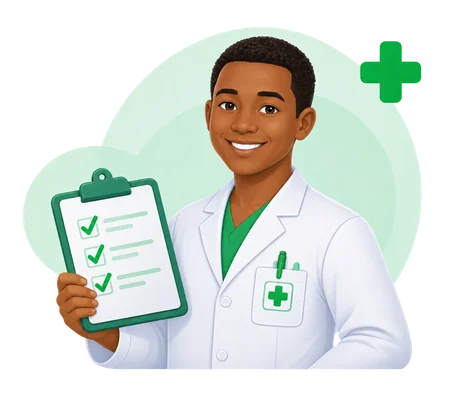
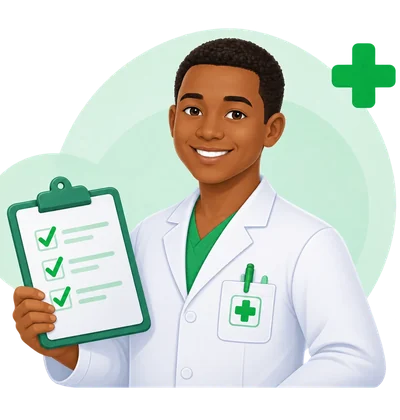
Pharmacie : le pharmacien à la hauteur exacte des chiffres
L'illustration, recadrée autour du personnage, remplit la hauteur du
bloc de chiffres (en haut comme en bas) sans compter dans la hauteur du
bandeau ; au téléphone elle prend la moitié de la largeur et les chiffres
se resserrent.

Changed region(s): [[0.0, 0.06, 0.99, 0.93], [0.42, 0.12, 0.51, 0.42], [0.48, 0.33, 0.51, 0.36]]

diff --git a/src/components/pharmacie/pharmacie.css b/src/components/pharmacie/pharmacie.css
@@ -169,41 +169,50 @@ html.dark[data-nature="pharmacie"] {
   --bandeau: oklch(0.235 0.03 158);
 }
 .ph-bandeau {
+  --figure: 13rem;
   position: relative;
   margin-top: 1rem;
-  display: flex;
-  align-items: center;
-  gap: 1rem;
+  display: grid;
+  grid-template-columns: minmax(0, 1fr) var(--figure);
+  column-gap: 0.75rem;
   overflow: hidden;
-  min-height: 9.5rem;
   border-radius: 1.5rem;
   background: var(--bandeau);
-  padding: 1.1rem 0 1.1rem 1.4rem;
+  padding: 1.1rem 0.75rem 0 1.4rem;
+}
+/* La figure remplit la hauteur des chiffres, posée en bas à droite. */
+.ph-bandeau-figure {
+  position: relative;
+  /* La même marge basse que les chiffres : la figure commence et finit
+     avec eux. */
+  margin-bottom: 1.1rem;
 }
 .ph-bandeau-image {
-  align-self: flex-end;
-  flex-shrink: 0;
-  width: auto;
-  height: 10.5rem;
-  margin: 0 0.5rem -1.1rem 0;
+  position: absolute;
+  inset: 0;
+  width: 100%;
+  height: 100%;
+  object-fit: contain;
+  object-position: right bottom;
   pointer-events: none;
   user-select: none;
 }
 @media (max-width: 639px) {
   .ph-bandeau {
-    min-height: 8rem;
-    padding-left: 1.1rem;
+    --figure: 50%;
+    column-gap: 0.4rem;
+    padding: 1rem 0.5rem 0 1.1rem;
   }
-  .ph-bandeau-image {
-    height: 7.5rem;
-    margin-right: 0.35rem;
+  .ph-bandeau-figure {
+    margin-bottom: 1rem;
   }
 }
 .ph-entete-chiffres {
   display: flex;
   min-width: 0;
-  flex: 1 1 auto;
   flex-wrap: wrap;
+  align-self: center;
+  padding-bottom: 1.1rem;
   align-items: baseline;
   align-content: center;
   column-gap: 1.25rem;
@@ -248,13 +257,23 @@ html.dark[data-nature="pharmacie"] {
 }
 @media (max-width: 639px) {
   .ph-entete-chiffres > .ph-chiffre[data-ton="plein"] .ph-chiffre-valeur {
-    font-size: 1.9rem;
+    font-size: 1.7rem;
+  }
+  .ph-entete-chiffres > .ph-chiffre[data-ton="plein"] .ph-chiffre-libelle {
+    font-size: 0.9rem;
   }
   .ph-entete-chiffres > .ph-chiffre .ph-chiffre-valeur {
     font-size: 1.05rem;
   }
   .ph-entete-chiffres > .ph-chiffre .ph-chiffre-libelle {
     font-size: 0.8rem;
+  }
+  .ph-entete-chiffres {
+    row-gap: 0.15rem;
+    padding-bottom: 1rem;
+  }
+  .ph-entete-chiffres > .ph-chiffre[data-ton="plein"] {
+    margin-bottom: 0.35rem;
   }
 }
 /* En alerte, le chiffre et son libellé prennent la couleur de l'alerte. */
@@ -735,18 +754,17 @@ html[data-nature="pharmacie"] .app-feuille {
   transform: none;
   margin-top: 0.5rem;
   min-height: 8rem;
-  padding: 1.1rem 9.5rem 1.1rem 1.4rem;
+  padding: 1.1rem clamp(8rem, 40%, 13rem) 1.1rem 1.4rem;
   border: 0;
   border-radius: 1.5rem;
   color: var(--foreground);
-  background: var(--bandeau) url("../../assets/pharmacie/pharmacien.webp") no-repeat right 0.5rem
-    bottom -0.6rem / auto 8.5rem;
+  background: var(--bandeau) url("../../assets/pharmacie/pharmacien.webp") no-repeat right 0.75rem
+    bottom 0 / auto calc(100% - 1rem);
   box-shadow: none;
 }
 @media (max-width: 639px) {
   html[data-nature="pharmacie"] .app-feuille {
-    padding-right: 7rem;
-    background-size: auto 6.75rem;
+    padding-right: 40%;
   }
 }
 html[data-nature="pharmacie"] .app-feuille::before,

diff --git a/src/components/pharmacie/ui.tsx b/src/components/pharmacie/ui.tsx
@@ -51,7 +51,11 @@ export const EnTete: React.FC<{
     {children && (
       <div className="ph-bandeau">
         <div className="ph-entete-chiffres">{children}</div>
-        <img src={pharmacien} alt="" className="ph-bandeau-image" width={235} height={200} />
+        {/* La figure prend la hauteur des chiffres : elle ne compte pas
+            dans la hauteur du bandeau, elle la remplit. */}
+        <span className="ph-bandeau-figure" aria-hidden="true">
+          <img src={pharmacien} alt="" className="ph-bandeau-image" width={200} height={210} />
+        </span>
       </div>
     )}
   </header>
